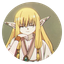
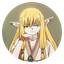
fix:完成附魔著作奖励与咏唱图片等最新待办

diff --git a/Tests/Engine/CurrentTodoFixTests.cs b/Tests/Engine/CurrentTodoFixTests.cs
@@ -20,6 +20,53 @@ using MegaCrit.Sts2.Core.Unlocks;
 
 public static class CurrentTodoFixTests
 {
+    public static async Task<int> RunLateNov12(Node root)
+    {
+        int checks=0;void Check(bool ok,string text){if(!ok)throw new Exception(text);checks++;GD.Print("PASS 最新待办："+text);}
+        SaveManager.Instance.InitPrefsDataForTest();LocalContext.NetId=1;
+        var player=Player.CreateForNewRun<Frieren>(UnlockState.all,1);var run=RunState.CreateForTest([player],seed:"TODO-01229");
+        var manager=RunManager.Instance;manager.SetUpTest(run,new NetSingleplayerGameService());CombatTestState.SetInProgress(false);
+        run.PushRoom(new MegaCrit.Sts2.Core.Rooms.RestSiteRoom());manager.ActionExecutor.Unpause();
+        var density=run.CreateCard<HighDensityMana>(player);await CardPileCmd.Add(density,PileType.Deck);
+        var swift=ModelDb.Enchantment<MegaCrit.Sts2.Core.Models.Enchantments.Swift>();
+        Check(swift.CanEnchant(density)&&ModelDb.Enchantment<FrierenMod.Scripts.Enchantments.ManaSource>().CanEnchant(density),"高密度魔力可用于原生与模组通用附魔");
+        Check(!ModelDb.Enchantment<MegaCrit.Sts2.Core.Models.Enchantments.Sharp>().CanEnchant(density),"攻击牌专属附魔仍不能附在高密度魔力上");
+        Check(!swift.CanEnchant(run.CreateCard<Mana>(player))&&!swift.CanEnchant(run.CreateCard<MegaCrit.Sts2.Core.Models.Cards.Dazed>(player)),"其他状态牌仍保留原生限制");
+        CardCmd.Enchant<MegaCrit.Sts2.Core.Models.Enchantments.Swift>(density,1);
+        Check(!ModelDb.Enchantment<FrierenMod.Scripts.Enchantments.ManaSource>().CanEnchant(density)&&Player.FromSerializable(player.ToSerializable()).Deck.Cards.OfType<HighDensityMana>().Single().Enchantment is MegaCrit.Sts2.Core.Models.Enchantments.Swift,"附魔真实存档恢复，不能覆盖不同附魔");
+        bool foundFake=false;bool foundTrue=false;
+        for(uint seed=0;seed<100;seed++) {
+            var random=FrierenMod.Scripts.Shared.Compatibility.GameApi.CreateRng(seed);var generated=new FrierenMod.Core.CommissionState();
+            generated.EnsureAct(0,random.NextInt,["A","B","C"],["UnbelievableTool"],["BlockPotion"],["CommonRelic"],["A","B","C"],["BossRelic"]);
+            foundFake|=generated.Quests.Any(q=>q.Reward.Item=="FakeFlammeGrimoire");foundTrue|=generated.Quests.Any(q=>q.Reward.Item=="FlammeGrimoire");
+        }
+        Check(foundFake&&!foundTrue,"首幕委托生成伪作，不再生成真作");
+        var old=new FrierenMod.Core.CommissionState{CurrentAct=0,GeneratedActs=[0],Quests=[new(){Id=10000,Act=0,Stars=3,Goal=FrierenMod.Core.CommissionGoal.Elites,Progress=1,BaseGold=100,Status=FrierenMod.Core.CommissionStatus.Accepted,Reward=new(FrierenMod.Core.CommissionRewardKind.Relic,"FlammeGrimoire",200,150,DuplicateGold:200)}]};
+        CommissionCmd.Data.Set(player,old.ToJson());var migrated=CommissionCmd.Read(player);
+        Check(migrated.Quests.Single().Reward.Item=="FakeFlammeGrimoire"&&CommissionCmd.Data.Get(player).Contains("FakeFlammeGrimoire"),"旧存档未领奖的真作合同迁移为伪作并保存");
+        int gold=player.Gold;Check(await CommissionCmd.Execute(player,10000,FrierenMod.Core.CommissionOperation.Claim,migrated.Revision),"迁移后的旧委托仍可原生领奖");
+        Check(player.GetRelic<FrierenMod.Scripts.Relics.FakeFlammeGrimoire>()!=null&&player.GetRelic<FrierenMod.Scripts.Relics.FlammeGrimoire>()==null&&player.Gold==gold+250,"领奖获得伪作且金币总额保留250");
+        Check(FrierenMod.Scripts.Encounters.MimicEncounter.Rewards(player).OfType<MegaCrit.Sts2.Core.Rewards.RelicReward>().Any(r=>r.Relic is FrierenMod.Scripts.Relics.FlammeGrimoire),"持有伪作时宝箱怪仍奖励真作");
+        old.Quests[0].Status=FrierenMod.Core.CommissionStatus.Claimed;CommissionCmd.Data.Set(player,old.ToJson());
+        Check(CommissionCmd.Read(player).Quests.Single().Reward.Item=="FlammeGrimoire","已领奖的历史合同不改写");
+        var normal=run.CreateCard<RapidChant>(player);var precise=run.CreateCard<PreciseChant>(player);
+        foreach(var slot in Enum.GetValues<FrierenMod.Core.ManaSlot>()) {
+            var option=new FrierenMod.Core.ChantOption(slot,"BuildUpBody",1,1,1);
+            Check(FactorCard.Create(player,"BuildUpBody",slot,option,chantSource:normal).PortraitPath.EndsWith("BuildUpBody.png"),"普通咏唱使用因子图："+slot);
+            Check(FactorCard.Create(player,"BuildUpBody",slot,option,chantSource:precise).PortraitPath.EndsWith(ChantChoice.ArtFor(slot)+".png"),"精准咏唱使用牌堆图："+slot);
+        }
+        var point=new MegaCrit.Sts2.Core.Nodes.Screens.Map.NAncientMapPoint();var icon=new TextureRect{Name="Icon",Texture=ModelDb.AncientEvent<FrierenMod.Scripts.Ancients.Serie>().MapIcon};point.AddChild(icon);
+        var type=point.GetType();var color=(Color)AccessTools.PropertyGetter(type,"UntravelableColor").Invoke(point,null)!;
+        Check(color.R>.99f&&color.G>.99f&&color.B>.99f,"原生地图标记保留赛莉耶彩色头像，不染黑");
+        AccessTools.Field(typeof(MegaCrit.Sts2.Core.Nodes.Screens.Map.NMapPoint),"_state").SetValue(point,MegaCrit.Sts2.Core.Map.MapPointState.Travelable);
+        color=(Color)AccessTools.PropertyGetter(type,"TraveledColor").Invoke(point,null)!;Check(color.R>.99f,"可以进入的头像保持正常亮度");
+        AccessTools.Field(typeof(MegaCrit.Sts2.Core.Nodes.Screens.Map.NMapPoint),"_state").SetValue(point,MegaCrit.Sts2.Core.Map.MapPointState.Traveled);
+        color=(Color)AccessTools.PropertyGetter(type,"TraveledColor").Invoke(point,null)!;Check(color.R>.7f&&color.R<.8f,"已访问头像仍有原生状态亮度区别");
+        icon.Texture=ModelDb.AncientEvent<MegaCrit.Sts2.Core.Models.Events.Neow>().MapIcon;color=(Color)AccessTools.PropertyGetter(type,"UntravelableColor").Invoke(point,null)!;
+        Check(color.R<.99f||color.G<.99f||color.B<.99f,"其他先古地图颜色不变");point.Free();
+        Check(new MegaCrit.Sts2.Core.Localization.LocString("events","FRIERENMOD-DRAGON_BALL_ADVENTURE.title").GetFormattedText()=="Adventure Story: Dragon Ball","七龙珠事件英文标题同步");
+        manager.CleanUp();return checks;
+    }
     private static async Task Nov12Visuals(Node root,Player player)
     {
         var dir=ProjectSettings.GlobalizePath("res://../../artifacts/todo-nov12/ui");Directory.CreateDirectory(dir);

diff --git a/Tests/Engine/Author01215Tests.cs b/Tests/Engine/Author01215Tests.cs
@@ -61,7 +61,7 @@ public static class Author01215Tests
         Check(ManaCmd.InPile(p,PileType.Discard).Count()==4&&ManaCmd.InPile(p,PileType.Draw).Count()==7-expected.Cost,"换图不影响先生成再咏唱的目标与支付");
         foreach(var group in selector.Seen)for(int i=0;i<3;i++)Check(group[i].PortraitPath.EndsWith(ChantChoice.ArtFor((ManaSlot)i)+".png"),"生成／咏唱选项使用对应牌堆原图："+group[i].GetType().Name);
         foreach(var slot in Enum.GetValues<ManaSlot>()){
-            var factor=FactorCard.Create(p,"BuildUpBody",slot,new ChantOption(slot,"BuildUpBody",2,2,2));Check(factor.PortraitPath.EndsWith(ChantChoice.ArtFor(slot)+".png"),"所有咏唱牌共用牌堆图映射："+slot);
+            var factor=FactorCard.Create(p,"BuildUpBody",slot,new ChantOption(slot,"BuildUpBody",2,2,2));Check(factor.PortraitPath.EndsWith("BuildUpBody.png"),"普通咏唱保留因子自身卡图："+slot);
             Check(FactorCard.Create(p,"BuildUpBody",slot).PortraitPath.EndsWith("BuildUpBody.png"),"库存／初始因子保留自身卡图："+slot);
         }
         var texts=new Dictionary<string,string>();
@@ -74,9 +74,9 @@ public static class Author01215Tests
             Check(!play.Contains("#y")&&!greed.Contains("#r")&&play.Contains("[gold]")&&greed.Contains("[red]"),language+"矿山使用二代颜色标签");
             if(language=="zhs"){
                 Check(play.EndsWith("[gold]魔力[/gold]满溢而出。余兴节目结束，你继续踏上了旅程。"),"矿山结尾使用作者补全句子");
-                Check(new LocString("relics","FRIERENMOD-HOLY_EMBLEM.flavor").GetFormattedText().StartsWith("相当久远前的魔法使资格证明")&&new LocString("relics","FRIERENMOD-UPGRADED_HOLY_EMBLEM.flavor").GetFormattedText().Contains("所有魔法团体的认可"),"两种圣徽采用作者改稿");
+                Check(Regex.Replace(new LocString("relics","FRIERENMOD-HOLY_EMBLEM.flavor").GetFormattedText(),@"\[[^\]]+\]","").StartsWith("相当久远前的魔法使资格证明")&&new LocString("relics","FRIERENMOD-UPGRADED_HOLY_EMBLEM.flavor").GetFormattedText().Contains("所有魔法团体的认可"),"两种圣徽采用作者改稿");
             }
-            var cards=new List<CardModel>();cards.AddRange(ChantChoice.ManaGenerationChoices(p,4));cards.AddRange(Enum.GetValues<ManaSlot>().Select(slot=>FactorCard.Create(p,"BuildUpBody",slot,new ChantOption(slot,"BuildUpBody",1,1,1))));cards.Add(bread);
+            var cards=new List<CardModel>();cards.AddRange(Enum.GetValues<ManaSlot>().Select(slot=>FactorCard.Create(p,"BuildUpBody",slot,new ChantOption(slot,"BuildUpBody",1,1,1))));cards.AddRange(Enum.GetValues<ManaSlot>().Select(slot=>FactorCard.Create(p,"BuildUpBody",slot,new ChantOption(slot,"BuildUpBody",1,1,1),chantSource:precise)));cards.Add(bread);
             var host=new Control();root.AddChild(host);host.AddChild(new ColorRect{Size=new(1920,1080),Color=new("17202c")});var nodes=new List<NCard>();
             for(int i=0;i<cards.Count;i++){var node=GD.Load<PackedScene>("res://scenes/cards/card.tscn").Instantiate<NCard>();AccessTools.Property(typeof(NCard),nameof(NCard.Model)).SetValue(node,cards[i]);host.AddChild(node);node.Position=new(240+i%4*480,270+i/4*520);node.UpdateVisuals(PileType.None,CardPreviewMode.Normal);nodes.Add(node);}
             for(int i=0;i<5;i++)await root.ToSignal(root.GetTree(),SceneTree.SignalName.ProcessFrame);

diff --git a/Core/Frieren/CommissionState.cs b/Core/Frieren/CommissionState.cs
@@ -19,7 +19,7 @@ public sealed class Commission
     public CommissionGoal Goal { get; init; }
     public int Target { get; init; } = 1;
     public string Spell { get; init; } = "";
-    public CommissionReward Reward { get; init; } = new(CommissionRewardKind.Gold, "", 80);
+    public CommissionReward Reward { get; set; } = new(CommissionRewardKind.Gold, "", 80);
     public int Affix { get; init; }
     public string EliteBattle { get; set; } = "";
     public bool Legacy { get; set; }
@@ -90,7 +90,7 @@ public sealed class CommissionState
                 if(act is 1 or 2&&!Received("RoyalGrimoire"))Add(2,()=>new(CommissionRewardKind.Prop,"RoyalGrimoire",1,UniqueKey:"RoyalGrimoire"));
             }else{
                 Add(2,()=>new(CommissionRewardKind.RareChoice,"",1,Choices:ThreeRares()));
-                if(act==0)Add(2,()=>new(CommissionRewardKind.Relic,"FlammeGrimoire",200,150,DuplicateGold:200));
+                if(act==0)Add(2,()=>new(CommissionRewardKind.Relic,"FakeFlammeGrimoire",200,150,DuplicateGold:200));
                 else Add(2,()=>new(CommissionRewardKind.Prop,Pick(MagicPropRules.CommissionOnly.Where(p=>p.Id!="RoyalGrimoire").Select(p=>p.Id).ToArray()),1));
                 if(act==2&&bossRelics is {Count:>0})Add(1,()=>new(CommissionRewardKind.Relic,Pick(bossRelics),1,
                     FallbackProp:Pick(MagicPropRules.CommissionOnly.Where(p=>p.Id!="RoyalGrimoire").Select(p=>p.Id).ToArray())));
@@ -131,6 +131,14 @@ public sealed class CommissionState
     public bool WinElite(string key){var q=Active;if(q?.Goal!=CommissionGoal.EmpoweredElite||q.EliteBattle!=key)return false;return Record("empowered/"+key,CommissionGoal.EmpoweredElite);}
     public bool BeginCombat(string key){if(CombatKey==key)return false;CombatKey=key;LostHp=false;Revision++;return true;}
     public bool LoseHp(string key){BeginCombat(key);if(LostHp)return false;LostHp=true;Revision++;return true;}
+    public bool MigrateGrimoireRewards()
+    {
+        var pending = Quests.Where(q => q.Status is CommissionStatus.Available or CommissionStatus.Accepted &&
+            q.Reward.Kind == CommissionRewardKind.Relic && q.Reward.Item == "FlammeGrimoire").ToArray();
+        foreach (var q in pending) q.Reward = q.Reward with { Item = "FakeFlammeGrimoire" };
+        if (pending.Length > 0) Revision++;
+        return pending.Length > 0;
+    }
     public string ToJson()=>JsonSerializer.Serialize(this);
     public static CommissionState FromJson(string json){
         var s=JsonSerializer.Deserialize<CommissionState>(json)??throw new ArgumentException("委托存档为空");

diff --git a/Tests/Engine/AuthorReviewTests.cs b/Tests/Engine/AuthorReviewTests.cs
@@ -48,8 +48,8 @@ public static class AuthorReviewTests
         int before=p.Gold;await Claim(new(CommissionRewardKind.Gold,"",50));Check(p.Gold==before+80,"一星额外50加固定30，合计80");
         before=p.Gold;await Claim(new(CommissionRewardKind.Prop,"UnbelievableTool",1,ExtraProp:"MysteryBox"));
         Check(p.Gold==before+30&&MagicDeckStore.Read(p).Props.Select(x=>x.PropId).Order().SequenceEqual(new[]{"MysteryBox","UnbelievableTool"}),"一件固定工具、一件独立随机魔具及固定金币");
-        before=p.Gold;await Claim(new(CommissionRewardKind.Relic,"FlammeGrimoire",200,150,DuplicateGold:200),100);Check(p.Gold==before+250&&p.GetRelic<FlammeGrimoire>()!=null,"首幕著作报酬合计250金币");
-        before=p.Gold;await Claim(new(CommissionRewardKind.Relic,"FlammeGrimoire",200,150,DuplicateGold:200),100);Check(p.Gold==before+300,"已有著作时合计300金币，不重复累加150");
+        before=p.Gold;await Claim(new(CommissionRewardKind.Relic,"FakeFlammeGrimoire",200,150,DuplicateGold:200),100);Check(p.Gold==before+250&&p.GetRelic<FakeFlammeGrimoire>()!=null&&p.GetRelic<FlammeGrimoire>()==null,"首幕只奖励伪作，报酬合计250金币");
+        before=p.Gold;await Claim(new(CommissionRewardKind.Relic,"FakeFlammeGrimoire",200,150,DuplicateGold:200),100);Check(p.Gold==before+300,"已有伪作时合计300金币，不重复累加150");
         await Claim(new(CommissionRewardKind.Prop,"RoyalGrimoire",1,UniqueKey:"RoyalGrimoire"),50);
         Check(CommissionCmd.Read(p).ClaimedRewards.Contains("RoyalGrimoire"),"王室魔导书仅领取后标记唯一奖励");
         var potion=Contract(new(CommissionRewardKind.Potion,"BlockPotion",1)).Active!;

diff --git a/Scripts/Frieren/Mechanics/HighDensityManaEnchanting.cs b/Scripts/Frieren/Mechanics/HighDensityManaEnchanting.cs
@@ -1,0 +1,27 @@
+using System.Reflection.Emit;
+using FrierenMod.Scripts.Cards;
+using HarmonyLib;
+using MegaCrit.Sts2.Core.Entities.Cards;
+using MegaCrit.Sts2.Core.Models;
+
+namespace FrierenMod.Scripts.Mechanics;
+
+// 只放宽高密度魔力的状态牌禁令，其余原生附魔条件与附魔自身限制照常执行。
+[HarmonyPatch(typeof(EnchantmentModel), nameof(EnchantmentModel.CanEnchant))]
+internal static class HighDensityManaEnchanting
+{
+    private static CardType TypeForBaseRestriction(CardModel card) => card is HighDensityMana ? CardType.Skill : card.Type;
+    private static IEnumerable<CodeInstruction> Transpiler(IEnumerable<CodeInstruction> instructions)
+    {
+        bool replaced = false;
+        foreach (var code in instructions) {
+            if (!replaced && code.Calls(AccessTools.PropertyGetter(typeof(CardModel), nameof(CardModel.Type)))) {
+                code.opcode = OpCodes.Call;
+                code.operand = AccessTools.Method(typeof(HighDensityManaEnchanting), nameof(TypeForBaseRestriction));
+                replaced = true;
+            }
+            yield return code;
+        }
+        if (!replaced) throw new InvalidOperationException("未找到原生附魔类型检查。");
+    }
+}

diff --git a/Scripts/Frieren/Mechanics/CommissionCmd.cs b/Scripts/Frieren/Mechanics/CommissionCmd.cs
@@ -39,7 +39,12 @@ public static class CommissionCmd
     private static readonly HashSet<Player> Pending=[];
     private static readonly HashSet<string> ManaMakers=["MultipleOffensiveMagic","ManaDetection","DomainExpansion","ContinualChant","ClearMind","ButtSlam","TreasureVaultSpell","EndlessFlow","Snuggle","ManaCollapse","Disperse","ManaParcel","RapidChant","GrapeSpell","ShavedIceSpell","GoodLuckSpell","ManaExpansion","TrueColours"];
     public static bool IsBusy(Player p)=>Pending.Contains(p);
-    public static CommissionState Read(Player p){var json=Data.Get(p);return string.IsNullOrEmpty(json)?new():CommissionState.FromJson(json);}
+    public static CommissionState Read(Player p){
+        var json=Data.Get(p);if(string.IsNullOrEmpty(json))return new();
+        var state=CommissionState.FromJson(json);
+        if(state.MigrateGrimoireRewards())Data.Set(p,state.ToJson());
+        return state;
+    }
     public static void Write(Player p,CommissionState state){Data.Set(p,state.ToJson());Presentation.NewSlotBackAchievements.Commissions(p,state);}
     private static uint Seed(string text)=>BitConverter.ToUInt32(SHA256.HashData(Encoding.UTF8.GetBytes(text)),0);
     public static CommissionState State(Player p){

diff --git a/Scripts/Frieren/Presentation/SerieMapPortrait.cs b/Scripts/Frieren/Presentation/SerieMapPortrait.cs
@@ -1,0 +1,21 @@
+using System.Reflection;
+using Godot;
+using HarmonyLib;
+using MegaCrit.Sts2.Core.Map;
+using MegaCrit.Sts2.Core.Nodes.Screens.Map;
+
+namespace FrierenMod.Scripts.Presentation;
+
+// 原生先古标记将整张图片染黑；赛莉耶使用作者选定的圆形彩色头像。
+[HarmonyPatch]
+internal static class SerieMapPortrait
+{
+    private static IEnumerable<MethodBase> TargetMethods() => new[] { "TraveledColor", "UntravelableColor", "HoveredColor" }
+        .Select(name => (MethodBase)AccessTools.PropertyGetter(typeof(NAncientMapPoint), name));
+    private static void Postfix(NAncientMapPoint __instance, MethodBase __originalMethod, ref Color __result)
+    {
+        if (__instance.GetNodeOrNull<TextureRect>("Icon")?.Texture?.ResourcePath != "res://FrierenMod/images/ancients/serie_node.png") return;
+        float brightness = __originalMethod.Name == "get_TraveledColor" && __instance.State == MapPointState.Traveled ? .75f : 1;
+        __result = new Color(brightness, brightness, brightness, __result.A);
+    }
+}

diff --git a/Tests/Engine/Runner.cs b/Tests/Engine/Runner.cs
@@ -104,6 +104,10 @@ public partial class Runner : Node
             new Harmony("frieren.tests.hover_host").Patch(
                 AccessTools.Method(typeof(MegaCrit.Sts2.Core.Nodes.Cards.Holders.NCardHolder), "CreateHoverTips"),
                 prefix: new HarmonyMethod(typeof(Runner), nameof(SkipGlobalHoverWindow)));
+            if (OS.GetCmdlineUserArgs().Contains("--todo-01229-only")) {
+                GD.Print("TODO01229_OK: " + await CurrentTodoFixTests.RunLateNov12(this));
+                await Finish(); return;
+            }
             if (OS.GetCmdlineUserArgs().Contains("--nov12-only")) {
                 GD.Print("NOV12_OK: " + await CurrentTodoFixTests.RunNov12(this));
                 await Finish(); return;

diff --git a/Scripts/Frieren/Cards/Factors/FactorCard.cs b/Scripts/Frieren/Cards/Factors/FactorCard.cs
@@ -15,7 +15,7 @@ namespace FrierenMod.Scripts.Cards;
 public abstract class FactorCard(bool showInLibrary = true) : FrierenCard(-1, CardType.Skill, CardRarity.Token, TargetType.Self, showInLibrary), ICustomTypeTextCard
 {
     public string FactorId => GetType().Name;
-    protected override string ArtName=>Option.HasValue && Slot.HasValue ? ChantChoice.ArtFor(Slot.Value) : base.ArtName;
+    protected override string ArtName=>_chantSource is PreciseChant && Option.HasValue && Slot.HasValue ? ChantChoice.ArtFor(Slot.Value) : base.ArtName;
     public override CardRarity Rarity => SpellCatalog.Get(FactorId).Rarity switch {
         FactorRarity.Uncommon => CardRarity.Uncommon,
         FactorRarity.Rare => CardRarity.Rare,

diff --git a/README.md b/README.md
@@ -1,10 +1,10 @@
 # FrierenMod STS2
 
-《杀戮尖塔2》的芙莉莲模组，移植自[一代模组](https://steamcommunity.com/sharedfiles/filedetails/?id=3164722329)。当前版本 **0.12.28**，开发中。
+《杀戮尖塔2》的芙莉莲模组，移植自[一代模组](https://steamcommunity.com/sharedfiles/filedetails/?id=3164722329)。当前版本 **0.12.29**，开发中。
 
 芙莉莲使用抽牌堆、手牌与弃牌堆中的魔力进行咏唱，可装配因子、使用魔具，包含专属卡牌、遗物、事件、委托与Boss。多人游戏双方需使用相同版本的模组和BaseLib；混合角色队伍保留原版事件和Boss池。
 
-0.12.28修复开局选因子事件仍显示旧文案的问题：将作者已改写的四段中英文接入实际读取的事件表，移除旧表重复键。
+0.12.29将事件更名为“冒险物语：七龙珠”；高密度魔力支持适用的附魔；委托只奖励伏拉梅伪作，兼容未领奖旧合同，真作仅从宝箱怪获得。普通咏唱恢复因子图，精准咏唱使用牌堆图；按作者参考居中赛莉耶圆形头像并修正地图染黑。
 
 ## 安装
 
